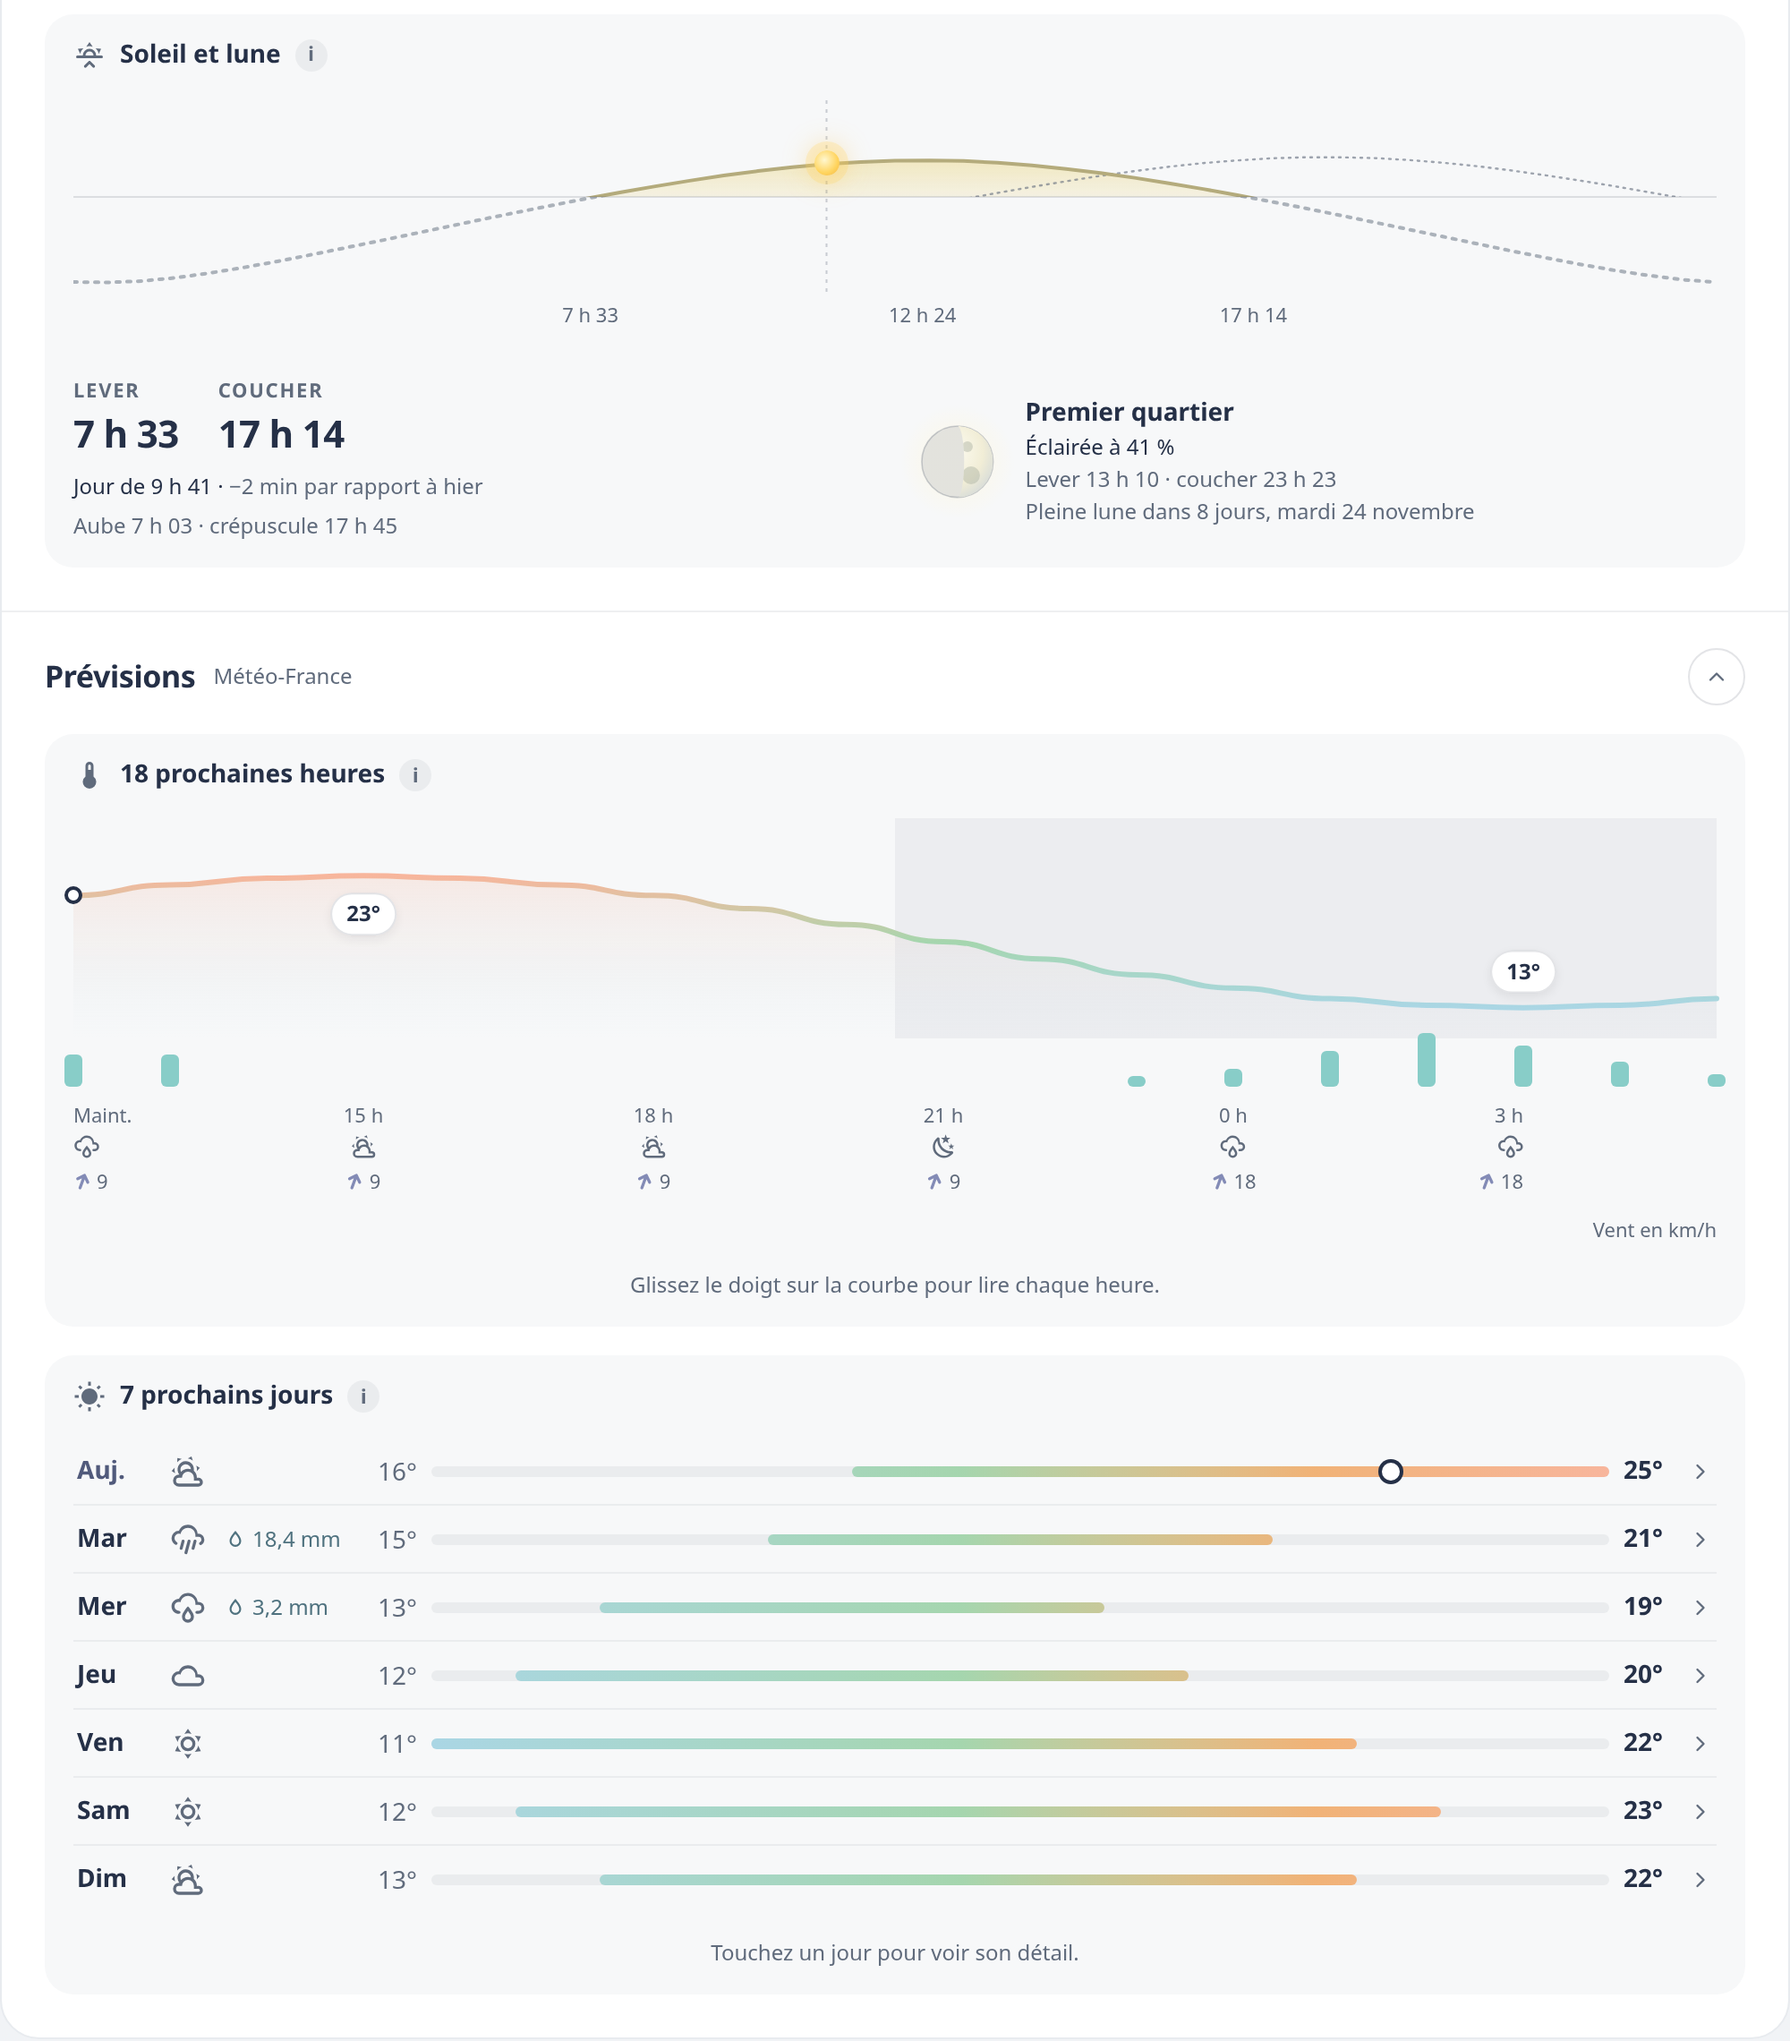
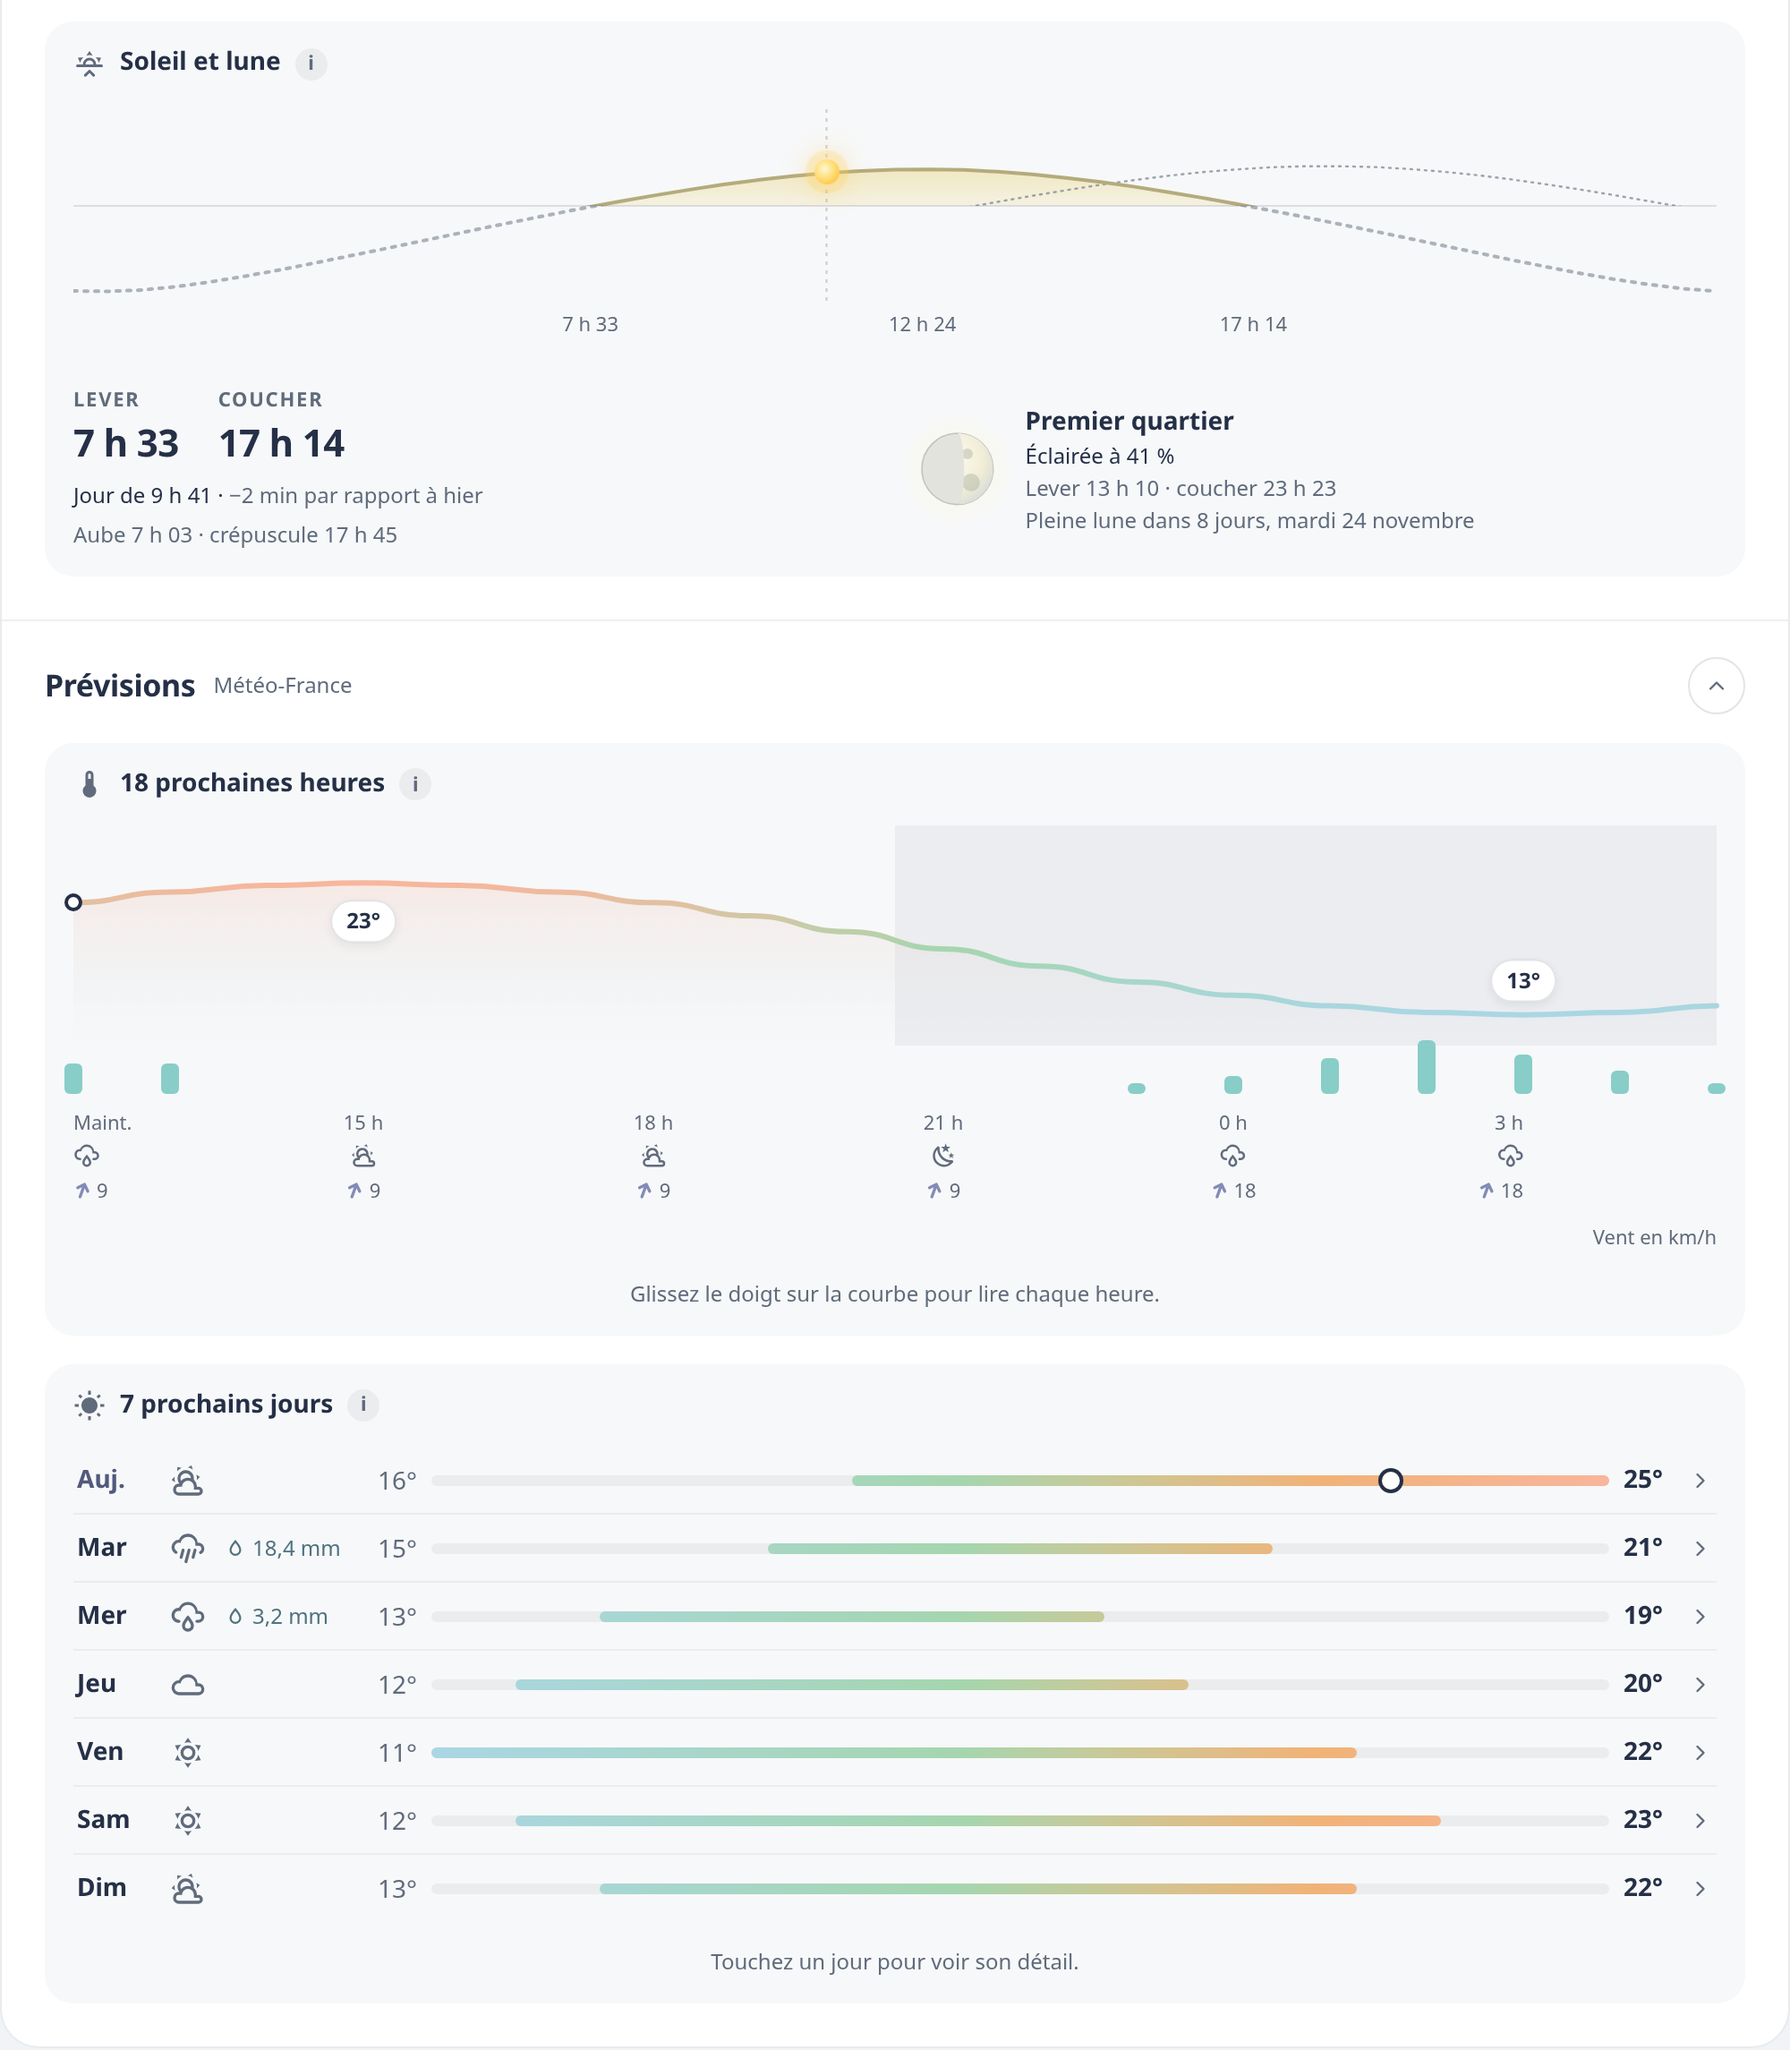
Documentation : la carte complète montre les éclairs d'un orage qui approche

diff --git a/docs/carte/README.md b/docs/carte/README.md
@@ -81,7 +81,7 @@ Le ciel peut se poser sur **un paysage**, au choix dans les réglages de la cart
 
 Le décor est léger : seuls des déplacements et des fondus sont animés, et tout se met en pause hors de l’écran.
 
-![Hestia Weather — la carte complète avec le décor de montagne sous la pluie : bandeau, événements, puis Aujourd’hui : ressenti, pluie, vent, pression, air et pollens](images/1.png)
+![Hestia Weather — la carte complète avec le décor de montagne sous la pluie : bandeau, événements, puis Aujourd’hui : ressenti, pluie, vent, pression, éclairs d’un orage qui approche, air et pollens](images/1.png)
 
 ## Aujourd’hui et Prévisions
 
